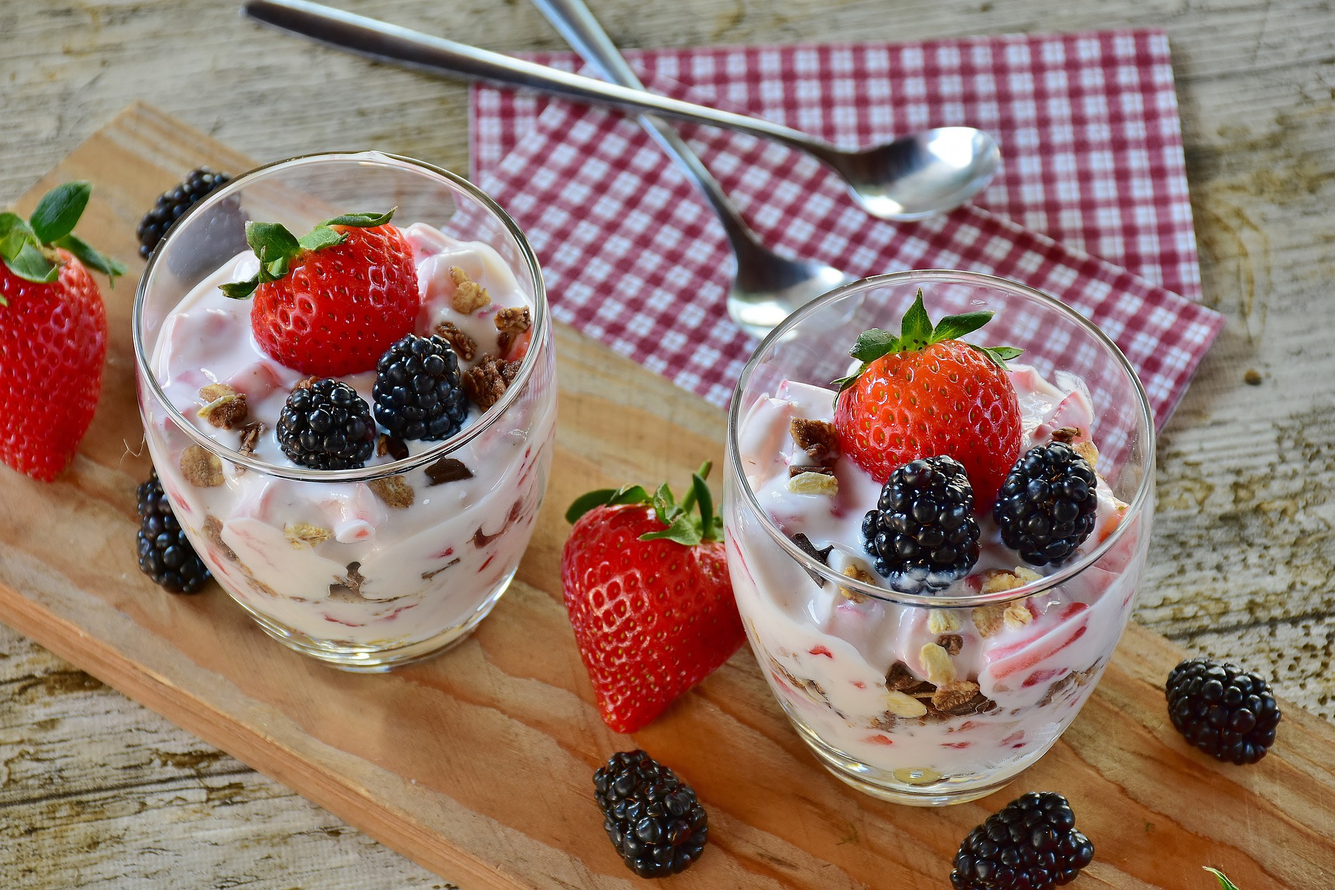
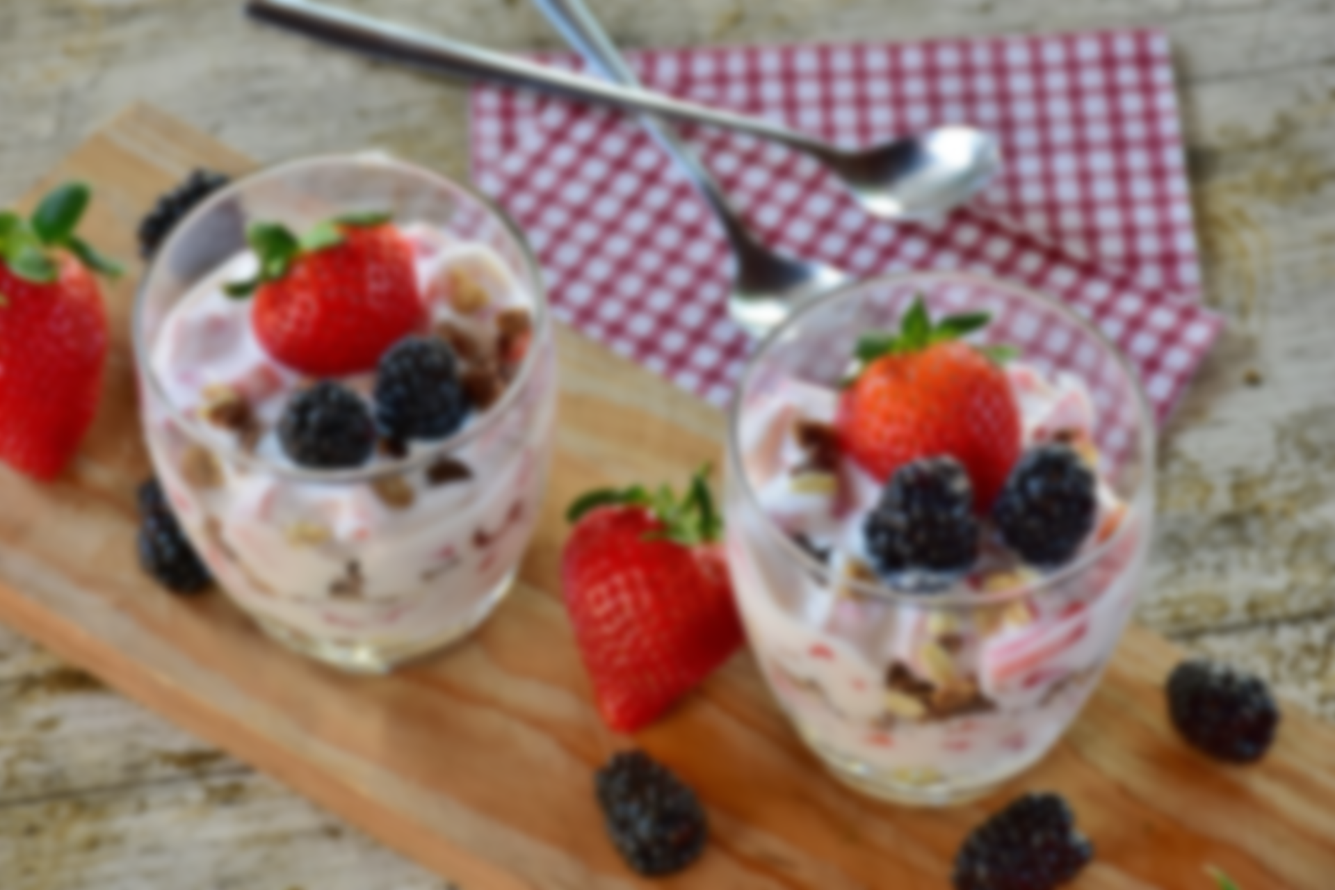
1

diff --git a/index.html b/index.html
@@ -23,12 +23,14 @@
         <a href="#"><button class="btn">Entrar</button></a>
     </nav>
     <header class="sectionlayout">
+        <span id="unblur">
         <h4>Seja bem vindo a</h4>
         <h1>DOÇES INSPIRAÇÕES</h1>
         <p>Onde você mesmo pode ser o confeiteiro.</p>
         <a href="search.html"><button class="btnsmall btn">Veja as possibilidades!</button></a>
+        </span>
     </header>
-    <footer class="sectionlayout footer">
+    <footer class="footer">
         <p>Copyright © 2024 Doçes Inspirações. Todos os direitos reservados.</p>
     </footer>
 </body>

diff --git a/global.css b/global.css
@@ -130,3 +130,11 @@ a{
         background-size: 650%;
     }
 }
+
+.footer{
+    max-width: 100%;
+    margin: auto;
+    padding: 3rem 1rem;   
+    text-align: center;
+    color: var(--secondary-dark);
+}

diff --git a/home.css b/home.css
@@ -29,5 +29,5 @@ header h1{
 
 header p{
     margin-bottom: 2rem;
-    color: white;
+    color: var(--primary-color);
 }
